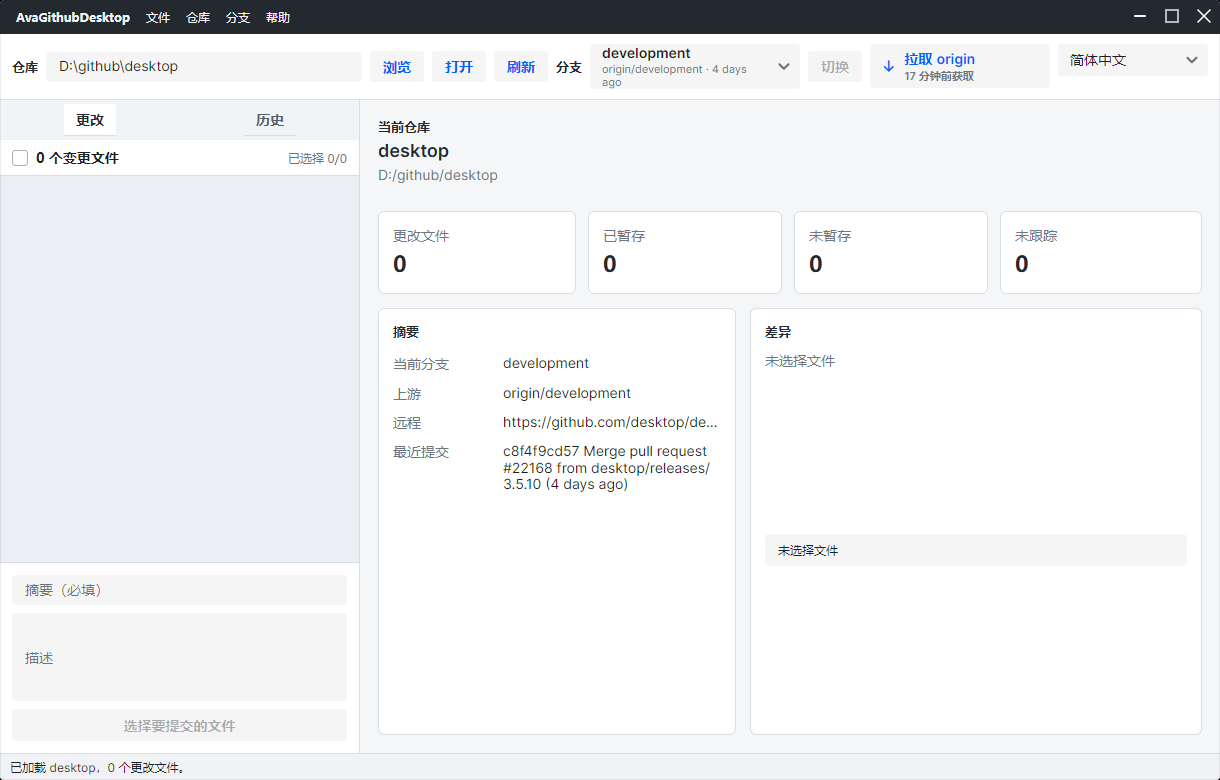
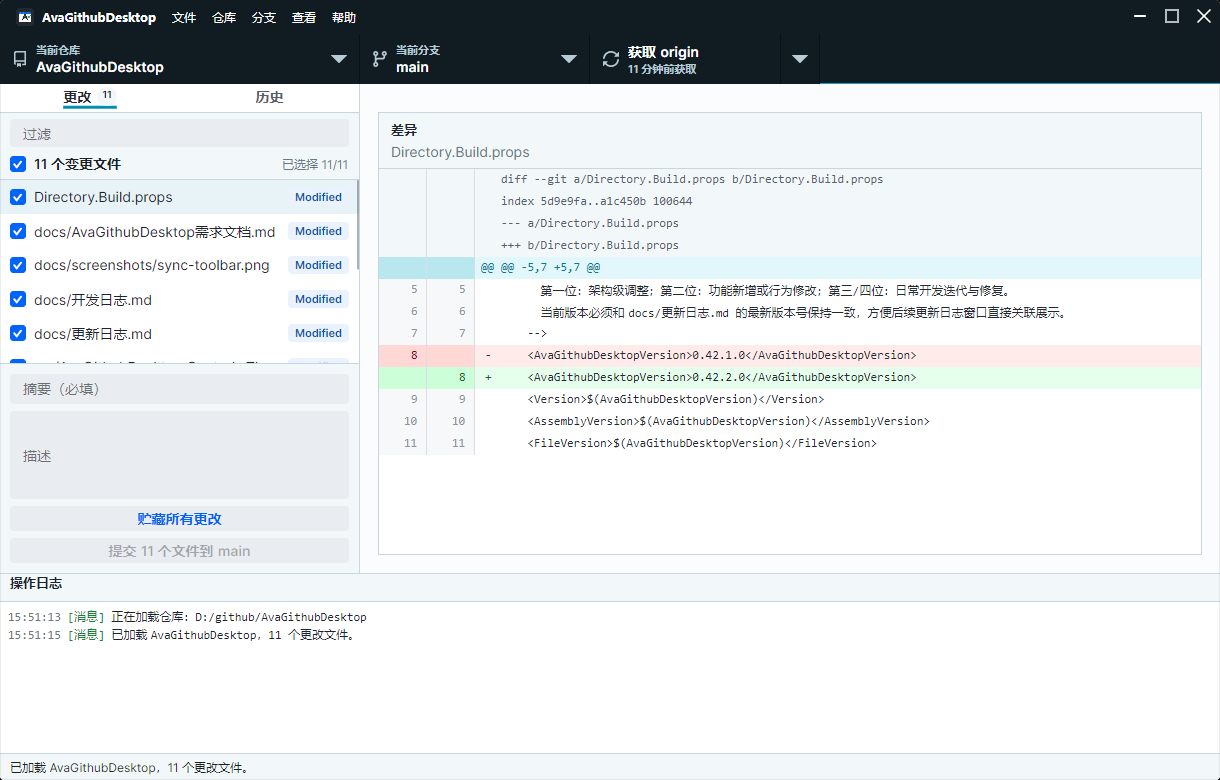
style(ui): refine sync toolbar actions

diff --git a/src/AvaGithubDesktop/ViewModels/MainWindowViewModel.cs b/src/AvaGithubDesktop/ViewModels/MainWindowViewModel.cs
@@ -1003,15 +1003,37 @@ public sealed class MainWindowViewModel : ViewModelBase
         }
     }
 
-    public string SyncActionIcon => IsSyncing
-        ? "..."
-        : CanPublishCurrentBranch
-            ? "↑"
-        : _behind > 0
-            ? "↓"
-            : _ahead > 0
-                ? "↑"
-                : "↻";
+    public bool IsSyncRefreshIconVisible =>
+        IsSyncing ||
+        (!CanPublishCurrentBranch && _behind <= 0 && _ahead <= 0);
+
+    public bool IsSyncDownloadIconVisible =>
+        !IsSyncing &&
+        !CanPublishCurrentBranch &&
+        _behind > 0;
+
+    public bool IsSyncUploadIconVisible =>
+        !IsSyncing &&
+        (CanPublishCurrentBranch || (!CanPublishCurrentBranch && _behind <= 0 && _ahead > 0));
+
+    public bool HasSyncAheadBehind =>
+        !IsSyncing &&
+        HasRemote &&
+        (_ahead > 0 || _behind > 0);
+
+    public bool HasSyncAhead =>
+        !IsSyncing &&
+        HasRemote &&
+        _ahead > 0;
+
+    public bool HasSyncBehind =>
+        !IsSyncing &&
+        HasRemote &&
+        _behind > 0;
+
+    public int AheadCount => _ahead;
+
+    public int BehindCount => _behind;
 
     public GitChangeItemViewModel? SelectedChange
     {
@@ -2669,7 +2691,14 @@ public sealed class MainWindowViewModel : ViewModelBase
         this.RaisePropertyChanged(nameof(CanPublishCurrentBranch));
         this.RaisePropertyChanged(nameof(SyncActionTitle));
         this.RaisePropertyChanged(nameof(SyncActionDescription));
-        this.RaisePropertyChanged(nameof(SyncActionIcon));
+        this.RaisePropertyChanged(nameof(IsSyncRefreshIconVisible));
+        this.RaisePropertyChanged(nameof(IsSyncDownloadIconVisible));
+        this.RaisePropertyChanged(nameof(IsSyncUploadIconVisible));
+        this.RaisePropertyChanged(nameof(HasSyncAheadBehind));
+        this.RaisePropertyChanged(nameof(HasSyncAhead));
+        this.RaisePropertyChanged(nameof(HasSyncBehind));
+        this.RaisePropertyChanged(nameof(AheadCount));
+        this.RaisePropertyChanged(nameof(BehindCount));
     }
 
     private void ShowChanges()

diff --git a/docs/开发日志.md b/docs/开发日志.md
@@ -1,5 +1,14 @@
 # 开发日志
 
+## 0.42.2.0 - 2026-05-27
+
+- 🎨[开发]-参考 GitHub Desktop `PushPullButton`，将顶部同步入口的字符箭头替换为同源 Octicon 风格矢量图标。
+- 🧩[开发]-`MainWindowViewModel` 新增同步图标和 ahead/behind 徽标派生属性，XAML 只做状态绑定，保持 MVVM 展示边界。
+- 🎨[开发]-新增同步按钮右侧独立下拉入口，Fetch、Pull、Push 继续绑定现有 ViewModel 命令。
+- 🎨[开发]-仓库、分支、同步下拉箭头统一使用 triangle-down 矢量路径，去掉工具栏残留字符图标。
+- 🧪[验证]-构建 `AvaGithubDesktop.slnx` 通过；中英文 JSON 资源一致；MVVM 事件扫描无命中；`git diff --check` 仅有 CRLF 提示。
+- 🧪[验证]-启动程序截图更新 `docs/screenshots/sync-toolbar.png`，确认同步图标、下拉箭头和工具栏布局正常；UIAutomation 确认同步下拉包含“获取、拉取、推送”。
+
 ## 0.42.1.0 - 2026-05-27
 
 - 🎨[开发]-参考 GitHub Desktop Octicon 资源，将顶部 Current Repository 和 Current Branch 的字符图标替换为 repo 与 git-branch 矢量图标。

diff --git a/docs/更新日志.md b/docs/更新日志.md
@@ -1,5 +1,11 @@
 # 更新日志
 
+## 0.42.2.0 - 2026-05-27
+
+- 🔧[优化]-顶部同步入口改用 GitHub Desktop 同源矢量图标，并增加 ahead/behind 计数徽标。
+- 🔧[优化]-同步按钮新增独立下拉入口，可从工具栏直接选择 Fetch、Pull、Push。
+- 🔧[优化]-仓库、分支和同步工具栏下拉箭头统一为矢量图标。
+
 ## 0.42.1.0 - 2026-05-27
 
 - 🔧[优化]-顶部仓库和分支入口改用 GitHub Desktop 同源矢量图标，工具栏视觉更精致。

diff --git a/docs/AvaGithubDesktop需求文档.md b/docs/AvaGithubDesktop需求文档.md
@@ -101,3 +101,4 @@
 - 默认界面配色优化为冷色科技风
 - 账号登录和语言切换入口收纳到标题栏菜单，工具栏保留核心仓库、分支和同步入口
 - 顶部仓库和分支入口使用 GitHub Desktop 同源 Octicon 风格矢量图标
+- Desktop 风格同步按钮使用 Octicon 风格矢量图标、ahead/behind 计数徽标和独立 Fetch/Pull/Push 下拉入口